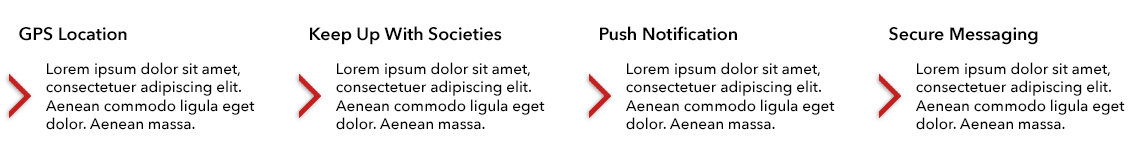
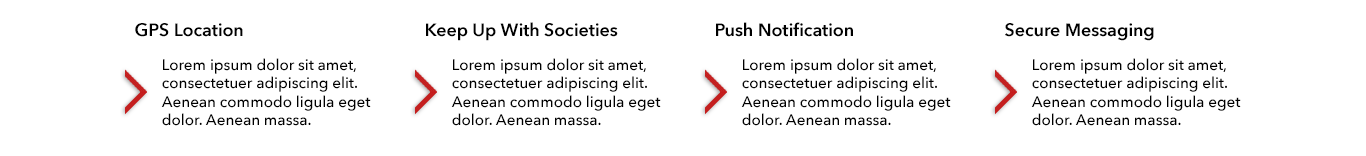
update

diff --git a/css/main.css b/css/main.css
@@ -149,7 +149,7 @@ h3 {
 }
 p {
 	font-family: Arial, 'Helvetica Neue', Helvetica, sans-serif;
-	font-size: 16px;
+	font-size: 24px;
 	font-style: normal;
 	font-variant: normal;
 	font-weight: bold;
